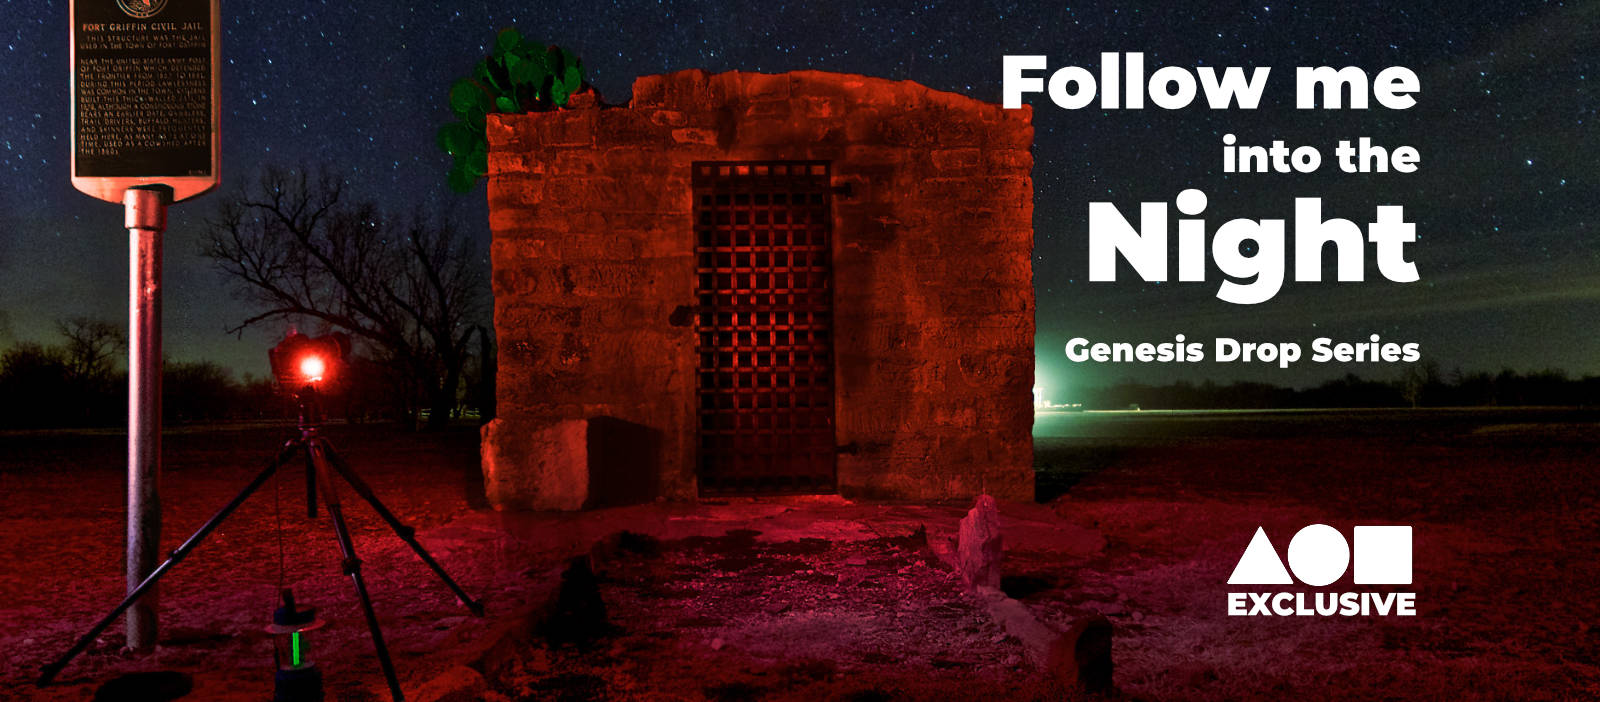
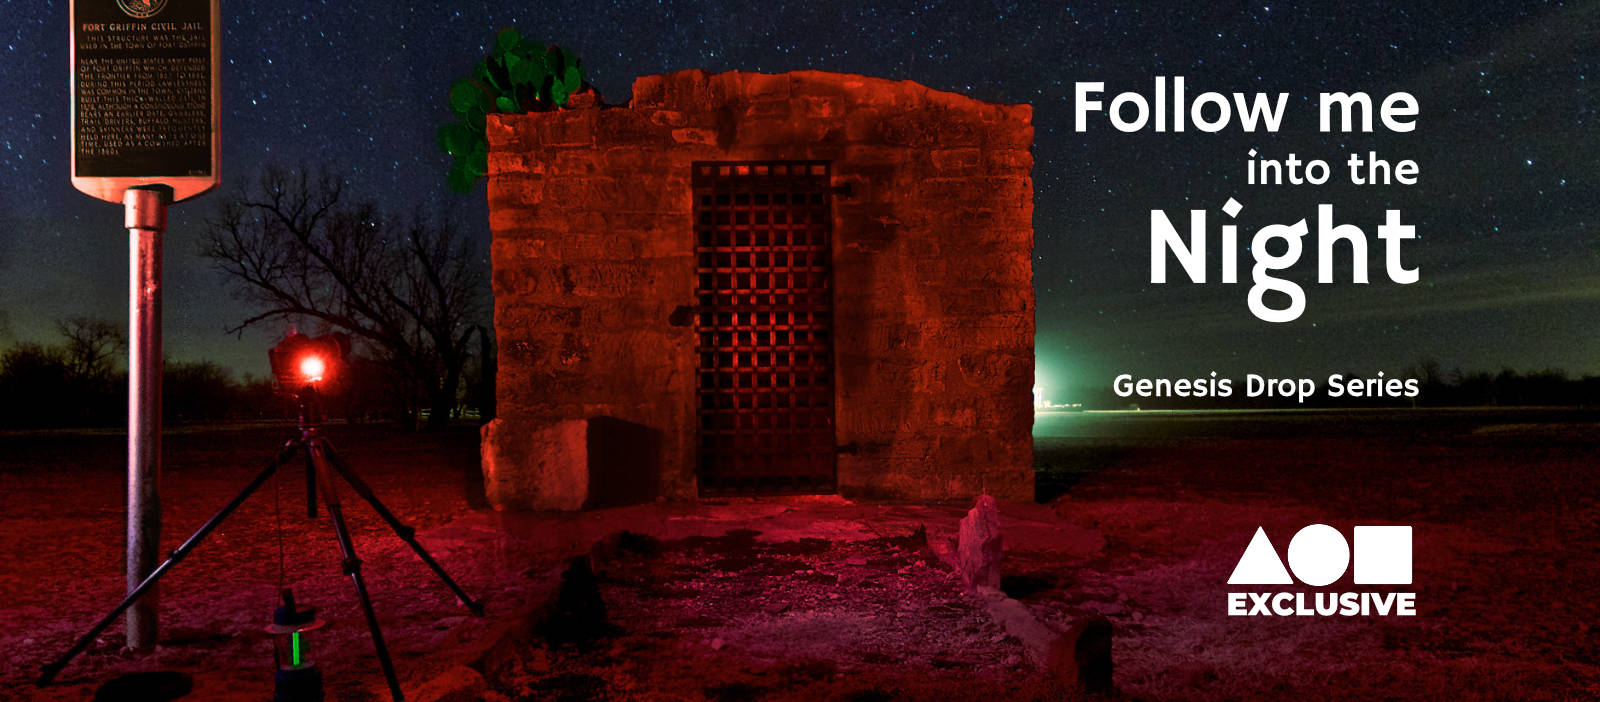
fixes

Changed region(s): [[0.625, 0.0598, 0.9062, 0.5684]]

diff --git a/src/pages/nft.jsx b/src/pages/nft.jsx
@@ -99,13 +99,7 @@ height: 0;
 
 
 
-.letter{
-position:relative;
-top:40px;
-font-size:8vw;
-z-index:1;
-border:1px solid pink;    
-}
+
 
 
 
